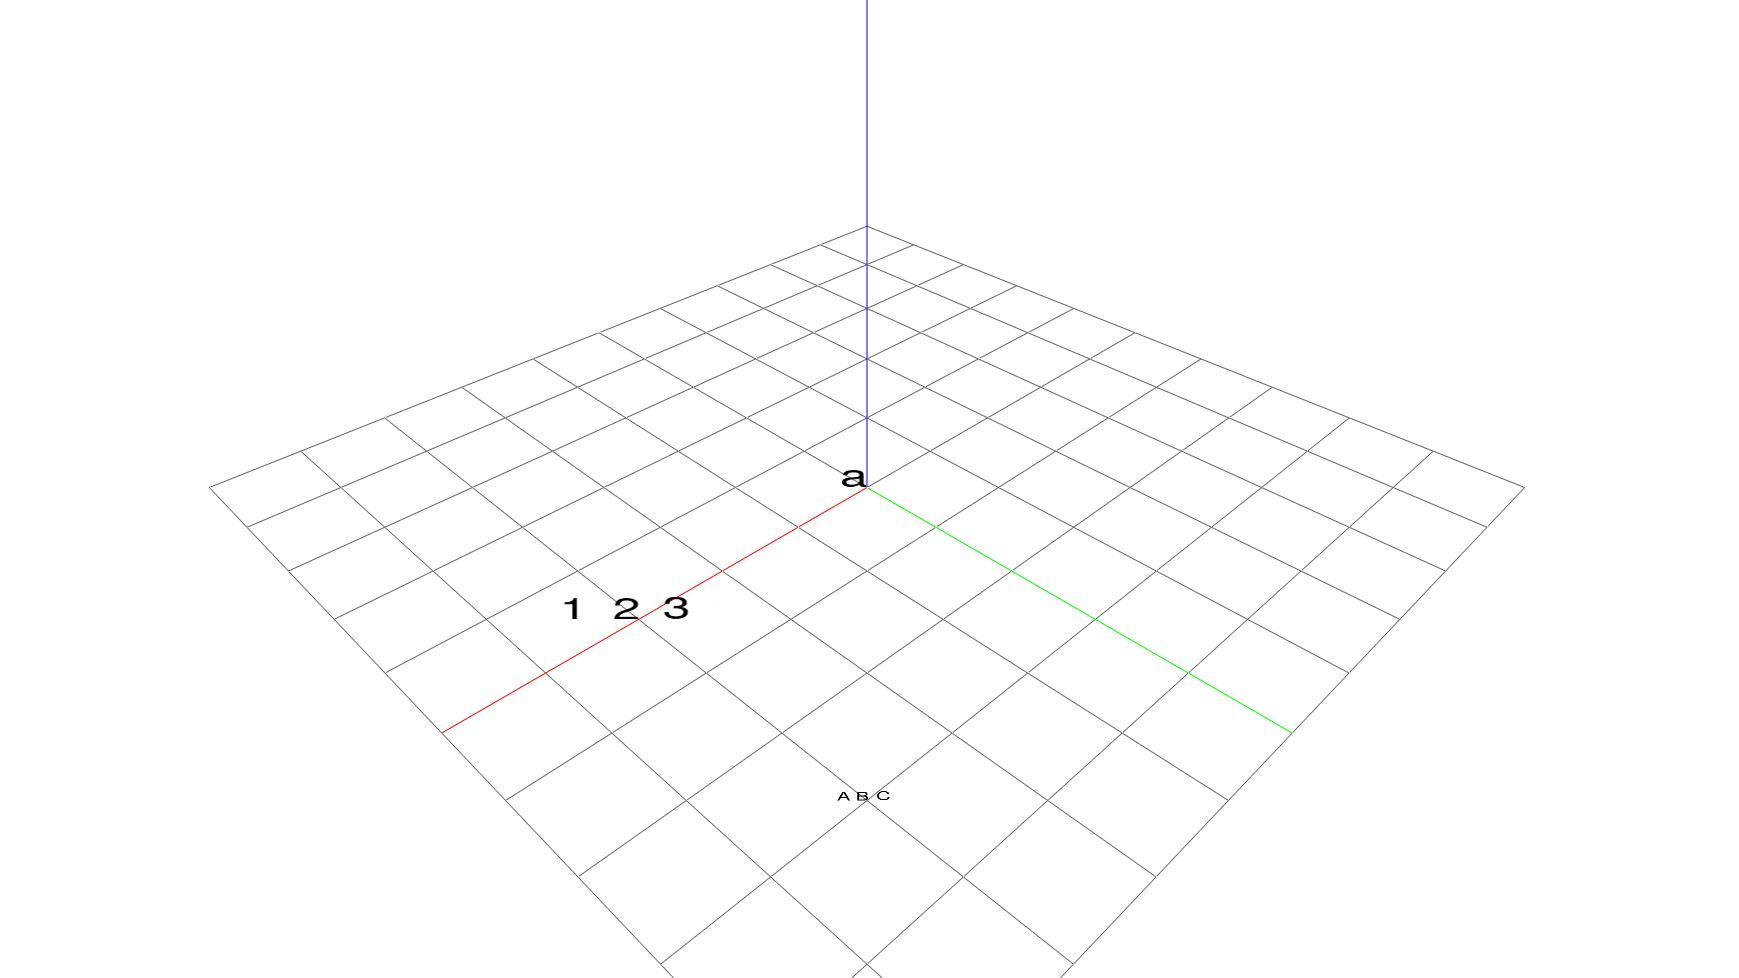
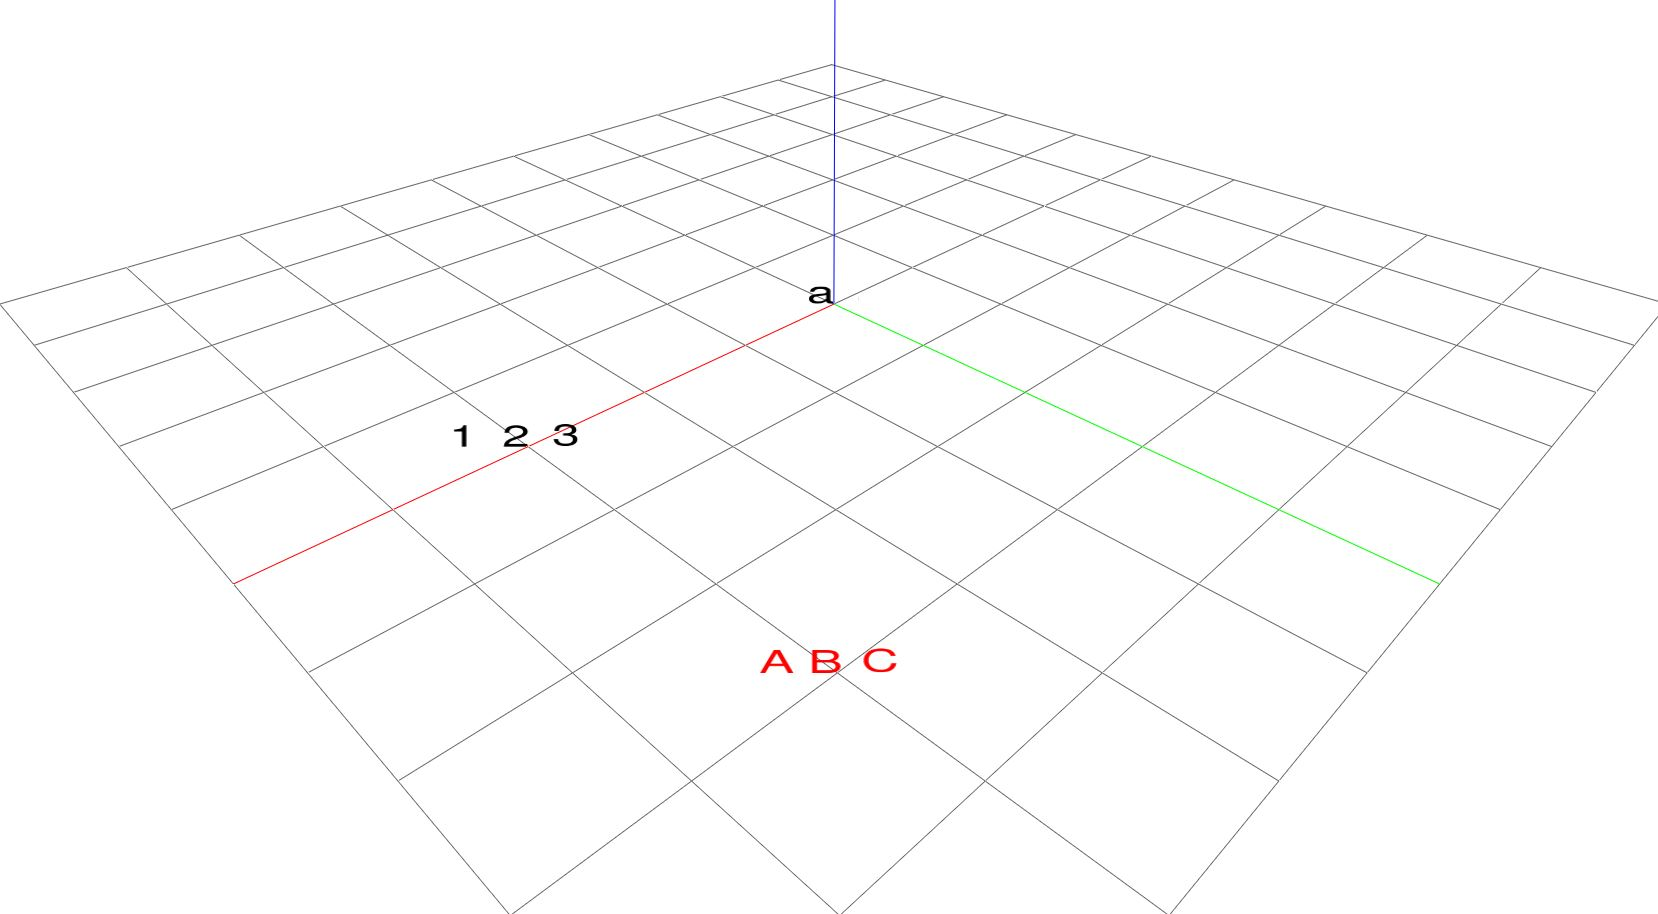
update an example, related to #67

diff --git a/docs/examples/object/texts.py b/docs/examples/object/texts.py
@@ -1,16 +1,21 @@
-from compas_viewer.scene import Tag
+from compas.colors import Color
+from compas.geometry import Translation
 
 from compas_viewer import Viewer
+from compas_viewer.scene import Tag
 
 viewer = Viewer()
 
 t = Tag("a", (0, 0, 0), height=50)
 viewer.scene.add(t)
 
-t = Tag("123", (3, 0, 0), height=50)
+t = Tag("123", (0, 0, 0), height=50)
+t.transform(Translation.from_vector([3, 0, 0]))
 viewer.scene.add(t)
 
-t = Tag("ABC", (3, 3, 0), height=20, absolute_height=True)
-viewer.scene.add(t, color=(1, 0, 0))
+t = Tag("ABC", (0, 0, 0), height=50, absolute_height=True, color=Color.red())
+t_obj = viewer.scene.add(t)
+t_obj.transformation = Translation.from_vector([3, 3, 0])
+
 
 viewer.show()

diff --git a/src/compas_viewer/scene/tagobject.py b/src/compas_viewer/scene/tagobject.py
@@ -192,7 +192,7 @@ class TagObject(ViewerSceneObject, GeometryObject):
         shader.uniform1f("object_opacity", self.opacity)
         shader.uniform1i("text_height", self._calculate_text_height(camera_position))
         shader.uniform1i("text_num", len(self.geometry.text))
-        shader.uniform3f("text_color", self.color)
+        shader.uniform3f("text_color", self.geometry.color)
         shader.uniformText("text_texture", self._text_buffer["text_texture"])
         shader.bind_attribute("position", self._text_buffer["positions"])
         shader.draw_texts(elements=self._text_buffer["elements"], n=self._text_buffer["n"])

diff --git a/CHANGELOG.md b/CHANGELOG.md
@@ -11,6 +11,7 @@ and this project adheres to [Semantic Versioning](https://semver.org/spec/v2.0.0
 * Added `RobotModelObject` and its example in the documentation.
 
 ### Changed
+* Updated the `Tag` example.
 * Updated the `RobotModelObject` example.
 * Update examples in the documentation.
 * Renamed `surfaces` into `viewmesh` in every `ViewerGeometryObject`.
